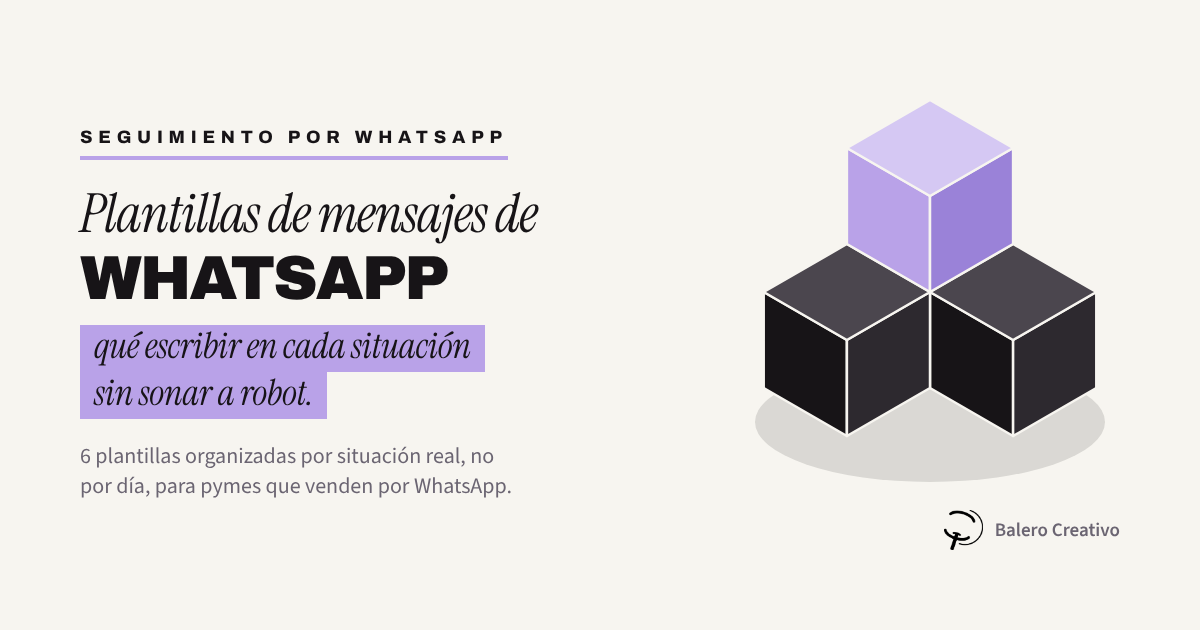
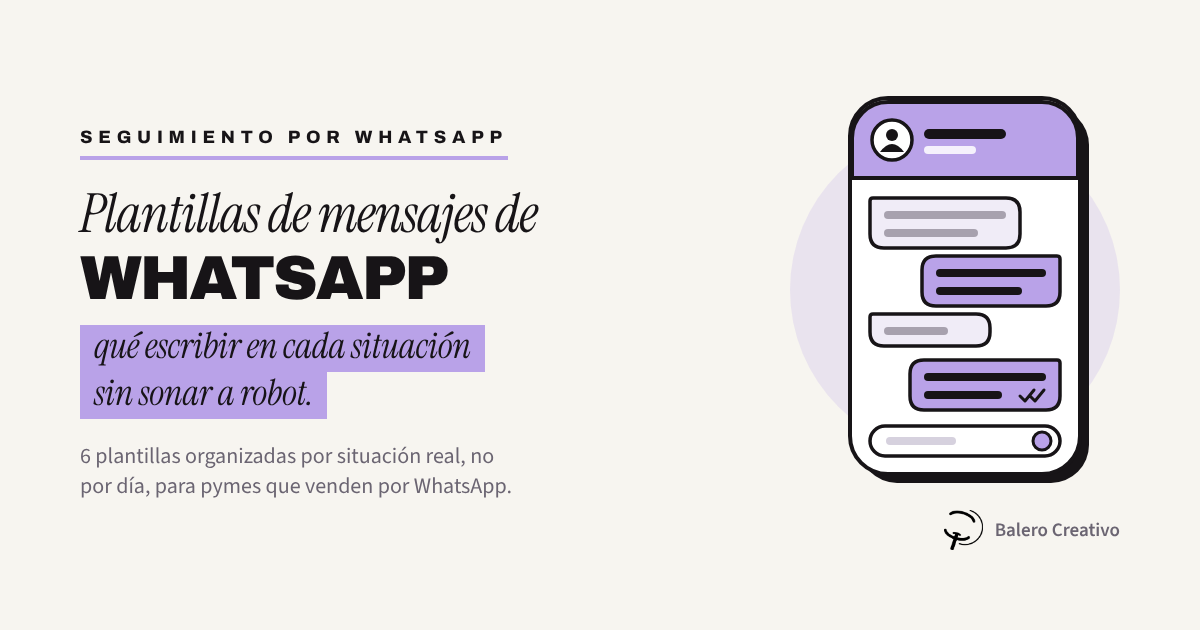
Plantillas WhatsApp image: replace cubes with chat phone illustration
Claude-Session: https://claude.ai/code/session_01NTbbmrkatfc9dT5fY1rn6A

Changed region(s): [[0.6167, 0.1508, 0.925, 0.7841], [0.3392, 0.754, 0.37, 0.7841]]

diff --git a/blog-images/plantillas-mensajes-whatsapp-1200x630.html b/blog-images/plantillas-mensajes-whatsapp-1200x630.html
@@ -26,7 +26,7 @@ h1 .hl span+span{margin-top:4px}
     <h1><span class="a">Plantillas de mensajes de</span><span class="b">WhatsApp</span><span class="hl"><span>qué escribir en cada situación</span><br><span>sin sonar a robot.</span></span></h1>
     <p class="sub">6 plantillas organizadas por situación real, no por día, para pymes que venden por WhatsApp.</p>
   </div>
-  <svg class="blocks" viewBox="0 0 1200 630" width="1200" height="630" xmlns="http://www.w3.org/2000/svg"><ellipse cx="930" cy="422" rx="175" ry="60" fill="#171417" opacity=".13"/><g transform="translate(930.0 340.0)"><polygon points="-83.1,-96.0 0.0,-48.0 0.0,48.0 -83.1,0.0" fill="#171417" stroke="#F7F5F0" stroke-width="2.5" stroke-linejoin="round"/><polygon points="83.1,-96.0 0.0,-48.0 0.0,48.0 83.1,0.0" fill="#2D292F" stroke="#F7F5F0" stroke-width="2.5" stroke-linejoin="round"/><polygon points="0.0,-144.0 83.1,-96.0 0.0,-48.0 -83.1,-96.0" fill="#4B464E" stroke="#F7F5F0" stroke-width="2.5" stroke-linejoin="round"/><polygon points="0.0,-48.0 83.1,0.0 83.1,96.0 0.0,48.0" fill="#171417" stroke="#F7F5F0" stroke-width="2.5" stroke-linejoin="round"/><polygon points="166.3,-48.0 83.1,0.0 83.1,96.0 166.3,48.0" fill="#2D292F" stroke="#F7F5F0" stroke-width="2.5" stroke-linejoin="round"/><polygon points="83.1,-96.0 166.3,-48.0 83.1,0.0 0.0,-48.0" fill="#4B464E" stroke="#F7F5F0" stroke-width="2.5" stroke-linejoin="round"/><polygon points="-166.3,-48.0 -83.1,0.0 -83.1,96.0 -166.3,48.0" fill="#171417" stroke="#F7F5F0" stroke-width="2.5" stroke-linejoin="round"/><polygon points="0.0,-48.0 -83.1,0.0 -83.1,96.0 0.0,48.0" fill="#2D292F" stroke="#F7F5F0" stroke-width="2.5" stroke-linejoin="round"/><polygon points="-83.1,-96.0 0.0,-48.0 -83.1,0.0 -166.3,-48.0" fill="#4B464E" stroke="#F7F5F0" stroke-width="2.5" stroke-linejoin="round"/><polygon points="-83.1,-192.0 0.0,-144.0 0.0,-48.0 -83.1,-96.0" fill="#B9A2E8" stroke="#F7F5F0" stroke-width="2.5" stroke-linejoin="round"/><polygon points="83.1,-192.0 0.0,-144.0 0.0,-48.0 83.1,-96.0" fill="#9A82D8" stroke="#F7F5F0" stroke-width="2.5" stroke-linejoin="round"/><polygon points="0.0,-240.0 83.1,-192.0 0.0,-144.0 -83.1,-192.0" fill="#D5C8F3" stroke="#F7F5F0" stroke-width="2.5" stroke-linejoin="round"/></g></svg>
+  <svg class="blocks" viewBox="0 0 1200 630" width="1200" height="630" xmlns="http://www.w3.org/2000/svg"><g><circle cx="955" cy="290" r="165" fill="#B9A2E8" opacity=".22"/><rect x="859" y="107" width="230" height="376" rx="38" fill="#171417"/><rect x="850" y="98" width="230" height="376" rx="38" fill="#fff" stroke="#171417" stroke-width="4"/><path d="M852 178 V138 a36 36 0 0 1 36 -36 H1042 a36 36 0 0 1 36 36 V178 Z" fill="#B9A2E8" stroke="#171417" stroke-width="4" stroke-linejoin="round"/><circle cx="892" cy="140" r="20" fill="#fff" stroke="#171417" stroke-width="3.5"/><circle cx="892" cy="135" r="6" fill="#171417"/><path d="M880 152 q12 -16 24 0" fill="#171417"/><rect x="924" y="129" width="82" height="10" rx="5" fill="#171417"/><rect x="924" y="146" width="52" height="8" rx="4" fill="#fff" opacity=".85"/><path d="M873 198 H1006 Q1020 198 1020 212 V234 Q1020 248 1006 248 H884 Q870 248 870 234 V201 Q870 198 873 198 Z" fill="#F0ECF7" stroke="#171417" stroke-width="3.5" stroke-linejoin="round"/><rect x="884" y="211" width="122" height="8" rx="4" fill="#6B6572" opacity=".55"/><rect x="884" y="229" width="94" height="8" rx="4" fill="#6B6572" opacity=".55"/><path d="M936 256 H1057 Q1060 256 1060 259 V292 Q1060 306 1046 306 H936 Q922 306 922 292 V270 Q922 256 936 256 Z" fill="#B9A2E8" stroke="#171417" stroke-width="3.5" stroke-linejoin="round"/><rect x="936" y="269" width="110" height="8" rx="4" fill="#171417"/><rect x="936" y="287" width="86" height="8" rx="4" fill="#171417"/><path d="M873 314 H976 Q990 314 990 328 V332 Q990 346 976 346 H884 Q870 346 870 332 V317 Q870 314 873 314 Z" fill="#F0ECF7" stroke="#171417" stroke-width="3.5" stroke-linejoin="round"/><rect x="884" y="327" width="64" height="8" rx="4" fill="#6B6572" opacity=".55"/><path d="M924 360 H1057 Q1060 360 1060 363 V396 Q1060 410 1046 410 H924 Q910 410 910 396 V374 Q910 360 924 360 Z" fill="#B9A2E8" stroke="#171417" stroke-width="3.5" stroke-linejoin="round"/><rect x="924" y="373" width="122" height="8" rx="4" fill="#171417"/><rect x="924" y="391" width="78" height="8" rx="4" fill="#171417"/><path d="M1020 396 l5 5 l9 -11 M1030 396 l5 5 l9 -11" fill="none" stroke="#171417" stroke-width="3" stroke-linecap="round" stroke-linejoin="round"/><rect x="870" y="426" width="190" height="30" rx="15" fill="#fff" stroke="#171417" stroke-width="3.5"/><rect x="886" y="437" width="70" height="8" rx="4" fill="#D6D1DE"/><circle cx="1042" cy="441" r="9" fill="#B9A2E8" stroke="#171417" stroke-width="3"/></g></svg>
   <div class="brand"><img src="assets/balero-isotipo-negro.png" alt=""><span>Balero Creativo</span></div>
 </div>
 </body></html>
